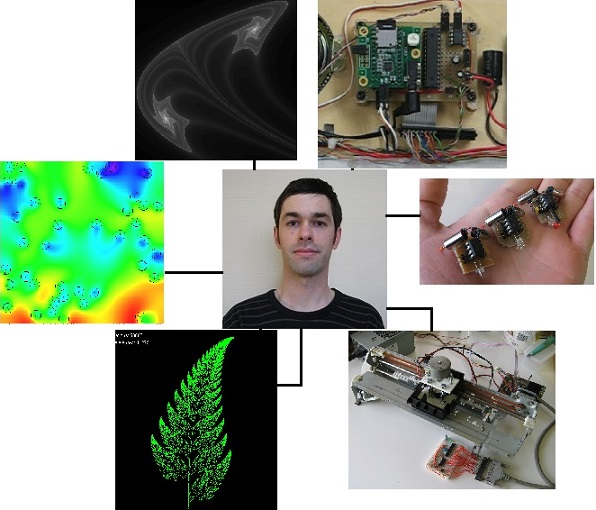
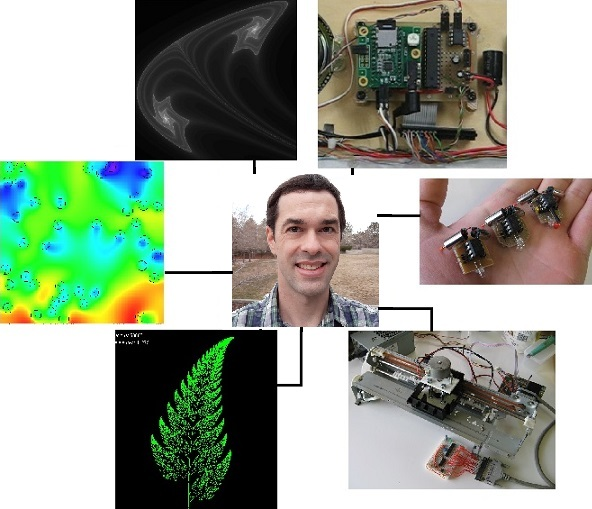
Updated pic and some wording

diff --git a/programs.md b/programs.md
@@ -30,14 +30,6 @@ Explore stochastic resonance and coupled excitable systems with this simulation.
 <br><a href="https://github.com/ericheisler/MathArtBits/tree/master/FitzHughNagumo">The repository</a> with the Java code.
 </p>
 
-<h3>N-body gravity simulation</h3>
-<p> <img src="images/ngrav2.png" alt="picture" width="200">
-A couple different implementations of N-body gravitation simulations. They are by no means useful for scientific purposes, but they are fun to play with. 
-<br><a href="https://github.com/ericheisler/MathArtBits/tree/master/Nbody">The repository</a> with the Java code.
-<br>
-<br>
-</p>
-
 <h3>2-D random walk of an ensemble of particles</h3>
 <p> <img src="images/randomwalk.png" alt="picture" width="200">
 Perform a 2-D random walk with any number of particles, then plot the statistics to confirm the results your textbook gives. There is also a version with memory, meaning there is an adjustable probability to step the same way as the last step. These statistics are more difficult, but not impossible, to find an analytical solution for.
@@ -65,8 +57,10 @@ Look at some random noise and you will find faces and other common patterns. You
 <br><a href="https://github.com/ericheisler/MathArtBits/tree/master/Buttons">The repository</a> with Processing sketch, Java code, and windows application.
 </p>
 
-<h3>Space dust cloud simulation</h3>
-<p> <img src="images/dusty.png" alt="picture" width="200">
-Make clouds of many particles and collide them. This is not very physically accurate, but it can look interesting.
-<br><a href="https://github.com/ericheisler/MathArtBits/tree/master/dustcloud">The repository</a> with the Java code.
+<h3>N-body gravity simulation</h3>
+<p> <img src="images/ngrav2.png" alt="picture" width="200">
+A couple different implementations of N-body gravitation simulations. They are by no means useful for scientific purposes, but they are fun to play with. 
+<br><a href="https://github.com/ericheisler/MathArtBits/tree/master/Nbody">The repository</a> with the Java code.
+<br>
+<br>
 </p>

diff --git a/research.md b/research.md
@@ -21,7 +21,7 @@ This was my PhD research in computer science at the University of Utah.
 
 <h3>Collective behavior of self-propelled particles</h3>
 <p>
-Numerical simulations and theoretical analysis of the dynamics of ensembles of self-propelled particles such as camphor pellets on water.
+MS research in mathematical and life science at Hiroshima University. Simulation and theoretical analysis of ensambles of self-propelled particles such as camphor pellets on water.
 <br>
 <ul>
 <li><a href="https://github.com/ericheisler/CamphorParticleSimulation">Simulation code repository</a> (Java)</li>
@@ -37,7 +37,7 @@ Numerical simulations and theoretical analysis of the dynamics of ensembles of s
 
 <h3>Finite difference methods using radial basis functions</h3>
 <p>
-Exploring the properties of some less-common finite difference methods gives surprising improvements in accuracy without much additional work.
+REU project. Exploring the properties of some less-common finite difference methods gives surprising improvements in accuracy without much additional work.
 <br>
 <ul>
 <li><a href="files/h-e_refinement_for_RBFs-paper.pdf">h-epsilon Refinement of Finite Difference Formulas Generated by Radial Basis Functions</a> Eric Heisler, Grady B. Wright</li>

diff --git a/projects.md b/projects.md
@@ -51,7 +51,7 @@ A crude yet effective pcb mill built from an old printer and other scrap electro
 <br><a href="https://github.com/ericheisler/PCBMill">The GitHub repository</a> with code and other files.
 </p>
 
-<h3>Crosshatching software for pen plotters and a mini plotter</h3>
+<h3>Crosshatching software for DIY pen plotters</h3>
 <p> <img src="images/crosshatch.jpg" alt="picture" width="200">
 A crosshatching algorithm to add shading ability to pen plotters. I also made a very small plotter from recycled electronics to make use of the software. The results look very nice, but it adds a lot of time to the drawing process.
 <br><a href="https://hackaday.io/project/20585-upgrade-for-your-diy-plotters">The hackaday.io project page</a> with description of the algorithm, build details for the plotter and video.

diff --git a/index.md b/index.md
@@ -6,4 +6,4 @@ title: Eric Heisler
 
 ![](images/aboutpic.JPG)
 
-I'm a maker of many things. This usually involves mathematical software, electronics, machines, robots, microcontrollers, woodworking, baking, 3D printing, gardening, etc. I am currently teaching computer science at the University of Utah while figuring out the next thing to make.
+I'm a maker of many things. This usually involves mathematical software, electronics, robots, woodworking, baking, etc. I am currently teaching computer science at the University of Utah while figuring out the next thing to make.

diff --git a/teaching.md b/teaching.md
@@ -4,8 +4,14 @@ title: Teaching
 
 ## Teaching
 
-<h3>Courses I've taught or am currently teaching</h3>
+<h3>Courses I've taught or will be teaching</h3>
 <p>
+Fall 2025
+<br>
+<ul>
+<li> CS 1400 Intro. to computer programming</li>
+<li> CS 1420 Accelerated intro. to object-oriented programming</li>
+</ul>
 Summer 2025
 <br>
 <ul>
